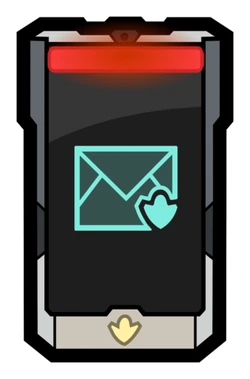
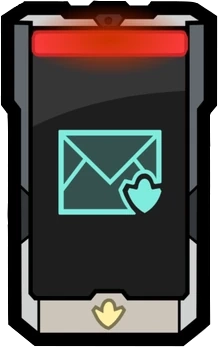
Adicionando telefone no canto da tela

diff --git a/Blog/index.css b/Blog/index.css
@@ -268,7 +268,6 @@ p.ano {
     height: 700px;
     background-image: url("../Blog/Fotos/Map_June_2015.png");
     background-size: cover;
-    background-color: purple;
     border: 9px solid white;
     position: relative;
 }
@@ -414,5 +413,25 @@ p.ano {
 
 .seta:hover {
     scale: 1.1;
+    cursor: pointer;
+}
+
+.telefone {
+    position: fixed;
+    left: 22px;
+    bottom: 30px;
+}
+
+.telefoninho {
+    width: 115px;
+    height: 115px;
+    background-image: url("../Blog/Fotos/EPF_Spy_Phone_icon.webp");
+    background-size: contain;
+    background-position: center;
+    background-repeat: no-repeat;
+}
+
+.telefoninho:hover {
+    background-image: url("../Blog/Fotos/EPF_Phone_New_Message.webp");
     cursor: pointer;
 }

diff --git a/Blog/index.html b/Blog/index.html
@@ -96,6 +96,9 @@
             <div class="mapinha"></div>
         </div>
         <div id="blogId"></div>
+        <div onclick="abrirLogin()" class="telefone">
+            <div class="telefoninho"></div>
+        </div>
     </section>
 </body>
 
